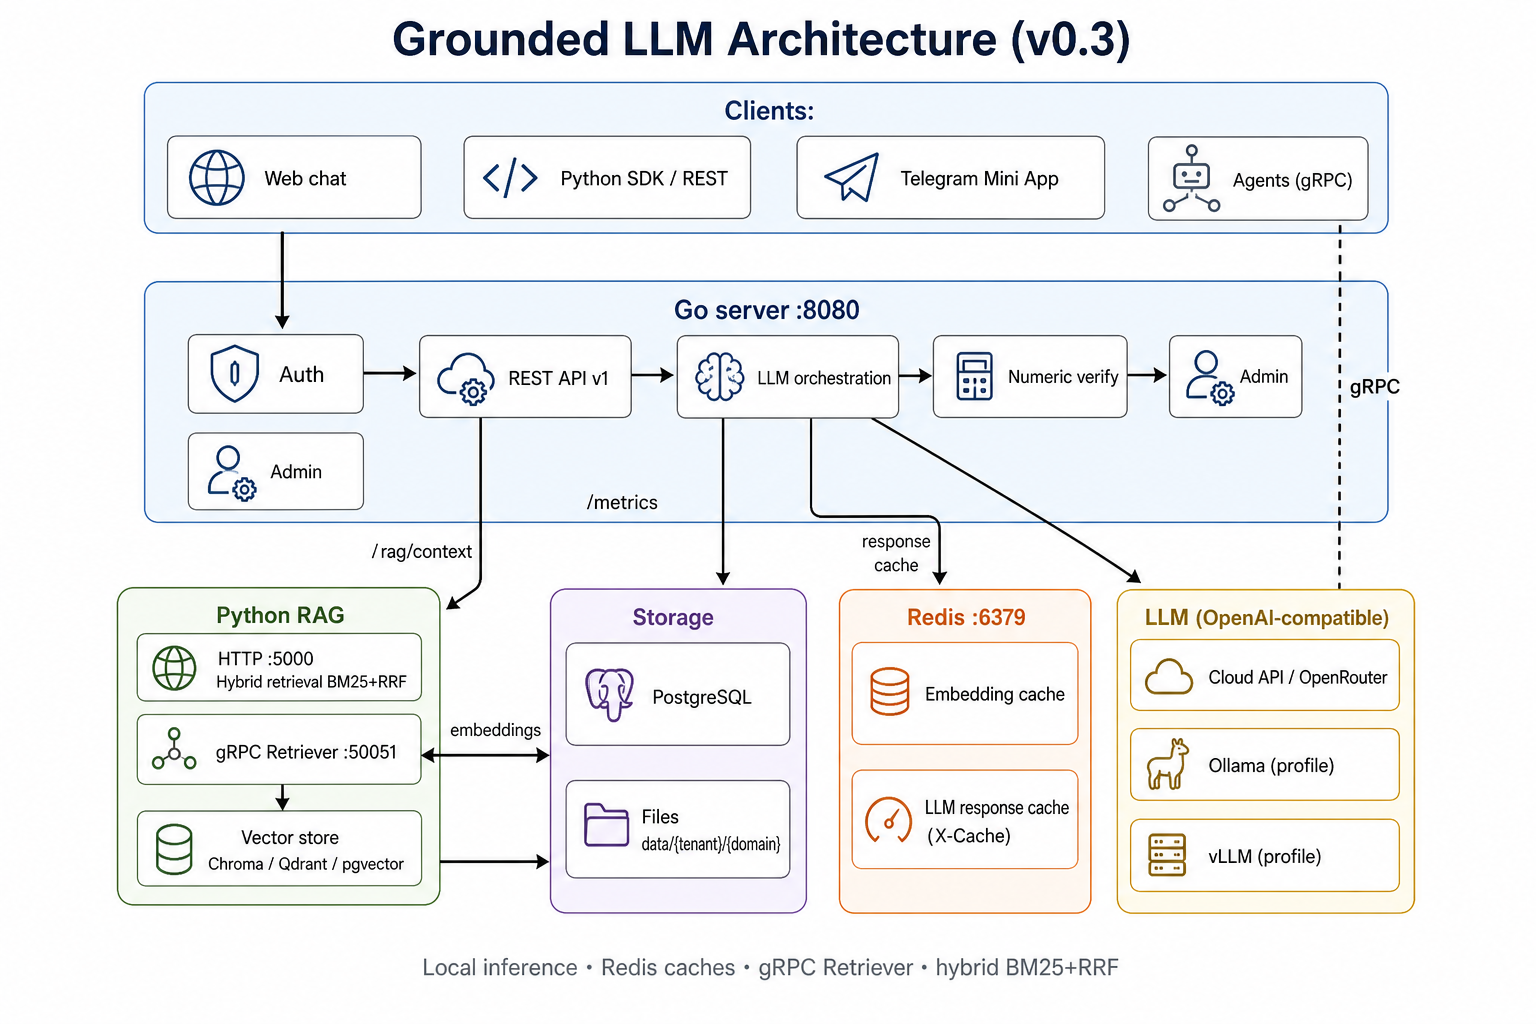
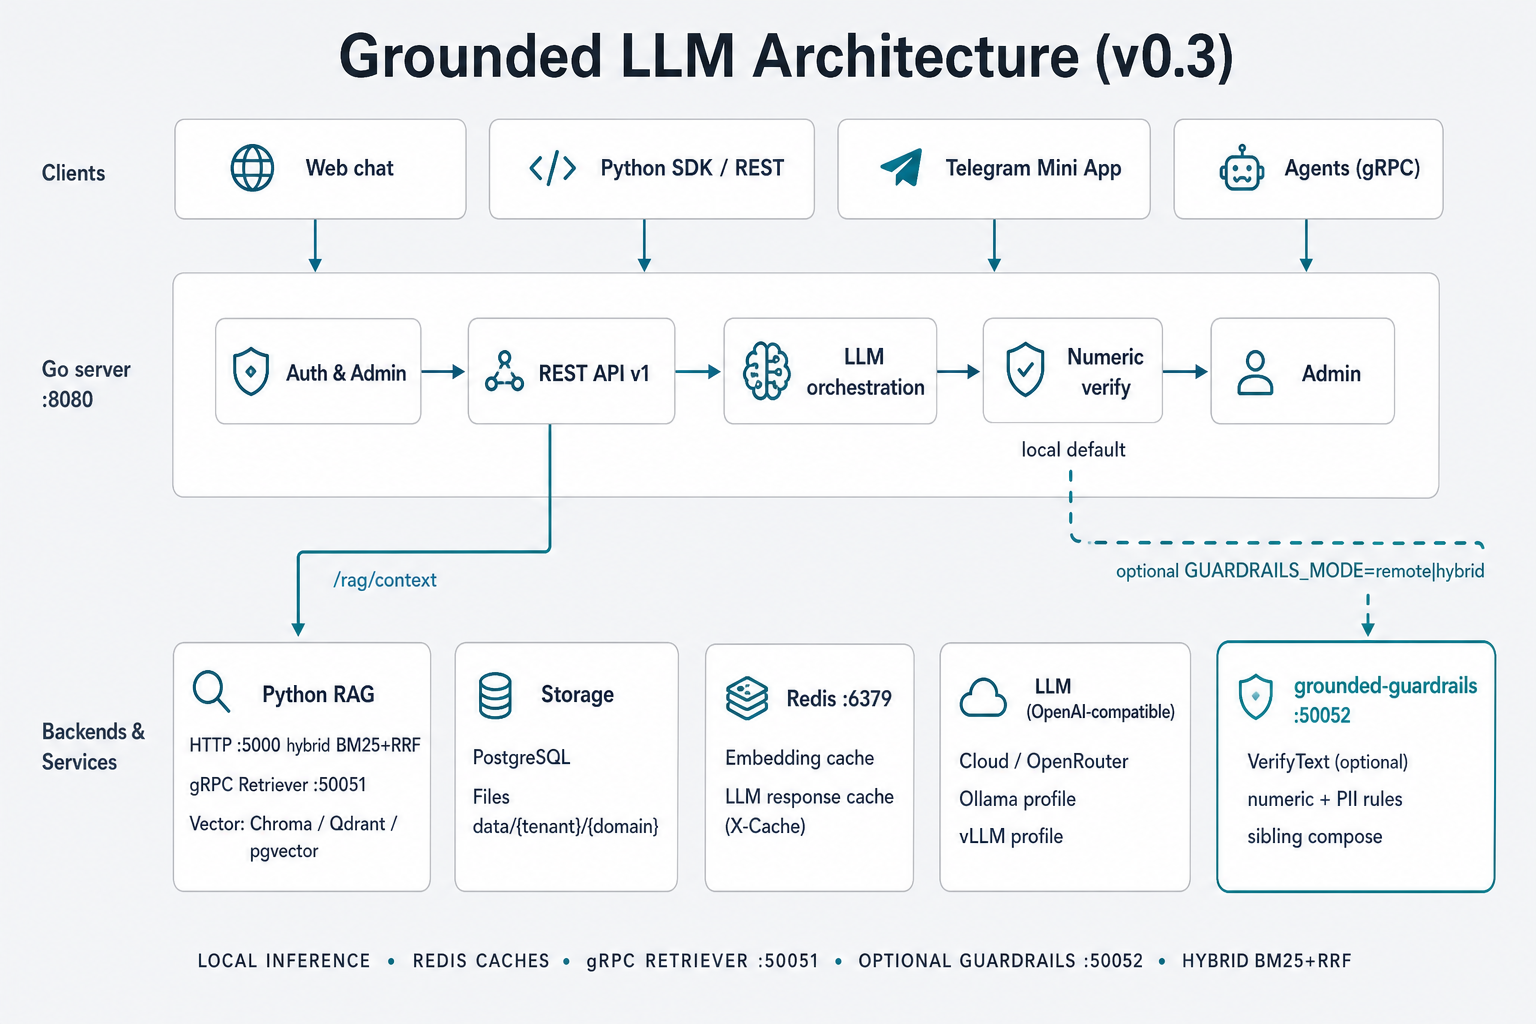
docs: complete EN/RU KB sync for optional guardrails :50052
Align remaining knowledge-base pages and architecture diagram with remote verify modes so product docs match the shipped wire.

diff --git a/docs/ru/knowledge-base/README.md b/docs/ru/knowledge-base/README.md
@@ -2,7 +2,7 @@
 
 Документация для изучения и сопровождения **ядра платформы Grounded LLM** (на русском языке).
 
-**См. также:** [../README.md](../README.md), [../ARCHITECTURE.md](../ARCHITECTURE.md), [../DEPLOY.md](../DEPLOY.md), [../../eval/README.md](../../eval/README.md).  
+**См. также:** [../README.md](../README.md), [../ARCHITECTURE.md](../ARCHITECTURE.md), [../DEPLOY.md](../DEPLOY.md), [../en/GUARDRAILS.md](../en/GUARDRAILS.md), [../../eval/README.md](../../eval/README.md).  
 English: [../../en/knowledge-base/README.md](../../en/knowledge-base/README.md).
 
 ### Только на английском (канон)
@@ -10,6 +10,7 @@ English: [../../en/knowledge-base/README.md](../../en/knowledge-base/README.md).
 | Тема | EN |
 |------|-----|
 | Spec v1, conformance | [GROUNDED_SPEC_v1.md](../../en/spec/GROUNDED_SPEC_v1.md) |
+| Guardrails (remote verify) | [GUARDRAILS.md](../../en/GUARDRAILS.md) |
 | Terraform, K8s | [TERRAFORM.md](../../en/TERRAFORM.md), [K8S_DEPLOY.md](../../en/K8S_DEPLOY.md) |
 | Trust center, backup | [TRUST_CENTER.md](../../en/TRUST_CENTER.md) |
 | SDK | [QUICKSTART_SDK.md](../../en/QUICKSTART_SDK.md) |
@@ -23,7 +24,7 @@ English: [../../en/knowledge-base/README.md](../../en/knowledge-base/README.md).
 | Документ | Описание |
 |----------|----------|
 | [PROJECT_STRUCTURE.md](./PROJECT_STRUCTURE.md) | Карта репозитория |
-| [docker-overview.md](./docker-overview.md) | Docker Compose, 4 сервиса |
+| [docker-overview.md](./docker-overview.md) | Docker Compose (+ опц. guardrails `:50052`) |
 | [github-ci.yml.md](./github-ci.yml.md) | GitHub Actions CI |
 | [config-overview.md](./config-overview.md) | `config/` и локали |
 | [data-pipeline.md](./data-pipeline.md) | Документы KB → RAG → чат |
@@ -37,7 +38,7 @@ English: [../../en/knowledge-base/README.md](../../en/knowledge-base/README.md).
 | [rag-domains_config.md](./rag-domains_config.md) | `domains.json`, tenant |
 | [rag-vector_store.md](./rag-vector_store.md) | Chroma, индексация |
 | [rag-retrieval.md](./rag-retrieval.md) | `POST /rag/context` |
-| [rag-verifier.md](./rag-verifier.md) | Проверка чисел в ответе |
+| [rag-verifier.md](./rag-verifier.md) | Проверка чисел (Go local + опц. remote `:50052`) |
 
 **Рекомендуемый порядок чтения:** domains_config → vector_store → retrieval → verifier → `server/rag_pipeline.go`
 
@@ -48,7 +49,7 @@ English: [../../en/knowledge-base/README.md](../../en/knowledge-base/README.md).
 | [server-overview.md](./server-overview.md) | Обзор `server/*.go` |
 | [server-auth-and-limits.md](./server-auth-and-limits.md) | Auth, API keys, CORS, лимиты |
 | [server-chat-and-db.md](./server-chat-and-db.md) | Сессии, Postgres, citations, streaming |
-| [server-rag_chat.md](./server-rag_chat.md) | RAG + LLM + verify |
+| [server-rag_chat.md](./server-rag_chat.md) | RAG + LLM + verify (`GUARDRAILS_MODE`) |
 | [server-admin-and-ux-api.md](./server-admin-and-ux-api.md) | Админка, metrics, onboarding |
 
 ### UI, скрипты, качество

diff --git a/docs/ru/knowledge-base/server-overview.md b/docs/ru/knowledge-base/server-overview.md
@@ -22,7 +22,8 @@
 | `config.go` | Настройки из env |
 | `llm.go`, `llm_stream.go` | OpenAI-compatible API + поток |
 | `rag_chat.go`, `rag_pipeline.go` | RAG, citations |
-| `rag_verify.go` | Проверка чисел, дисклеймер |
+| `rag_verify.go` | Проверка чисел (local Spec path), дисклеймер |
+| `guardrails_client.go` | Опциональный remote verify → grounded-guardrails `:50052` |
 | `rag_log.go` | Логи `[RAG]` |
 | `domains.go` | Каталог `domains.json` |
 | `locale.go` | `config/locales/{ru,en}`, middleware `X-Locale` |
@@ -55,6 +56,7 @@ flowchart TB
     Redis[(Redis caches)]
     Py[python RAG HTTP :5000 + gRPC :50051]
     LLM[OpenAI-compatible LLM\nOpenRouter / Ollama / vLLM]
+    GR[grounded-guardrails :50052\nопционально]
 
     Web --> Go
     Agents -->|Retriever| Py
@@ -63,6 +65,7 @@ flowchart TB
     Go -->|/rag/context| Py
     Py -->|embedding cache| Redis
     Go -->|/v1/chat/completions| LLM
+    Go -.->|GUARDRAILS_MODE=remote/hybrid| GR
 ```
 
 ---
@@ -70,11 +73,12 @@ flowchart TB
 ## Старт `main()`
 
 1. `loadConfig()` — `.env`
-2. Postgres + `runAllMigrations`
-3. `loadDomainCatalog()`, `initLocaleConfig()`
-4. `newChatStore`
-5. Gin routes + `localeMiddleware` + `startConfigReloadWatcher`
-6. Слушает `:8080`
+2. `initGuardrailsClient()` при `GUARDRAILS_MODE=remote|hybrid`
+3. Postgres + `runAllMigrations`
+4. `loadDomainCatalog()`, `initLocaleConfig()`
+5. `newChatStore`
+6. Gin routes + `localeMiddleware` + `startConfigReloadWatcher`
+7. Слушает `:8080`
 
 ---
 
@@ -92,6 +96,11 @@ flowchart TB
 | `API_KEYS`, `API_KEYS_FILE` | Ключи интеграторов |
 | `DEFAULT_TENANT_ID`, `ALLOWED_TENANTS` | Мультитенантность |
 | `ADMIN_PASSWORD`, `ADMIN_SECRET` | Админка |
+| `GUARDRAILS_MODE` | `local` (default) / `remote` / `hybrid` |
+| `GUARDRAILS_GRPC_ADDR` | адрес guardrails (напр. `localhost:50052`) |
+| `GUARDRAILS_PII_BLOCK` | включить `pii_block` при remote verify |
+
+Подробнее: [../en/GUARDRAILS.md](../en/GUARDRAILS.md).
 
 ---
 
@@ -102,3 +111,4 @@ flowchart TB
 | RAG | [server-rag_chat.md](./server-rag_chat.md) |
 | Python RAG | [python-api.md](./python-api.md) |
 | Docker | [docker-overview.md](./docker-overview.md) |
+| Guardrails | [../en/GUARDRAILS.md](../en/GUARDRAILS.md) |

diff --git a/docs/ru/knowledge-base/server-rag_chat.md b/docs/ru/knowledge-base/server-rag_chat.md
@@ -1,7 +1,8 @@
 # RAG и LLM — `server/rag_pipeline.go`
 
-**Исходники:** `server/rag_pipeline.go`, `server/rag_chat.go`, `server/rag_verify.go`  
+**Исходники:** `server/rag_pipeline.go`, `server/rag_chat.go`, `server/rag_verify.go`, `server/guardrails_client.go`  
 **Python:** [rag-retrieval.md](./rag-retrieval.md), [rag-verifier.md](./rag-verifier.md)  
+**Удалённый verify (опц.):** [../en/GUARDRAILS.md](../en/GUARDRAILS.md)  
 **Вызывается из:** `handleTextMessage`, `sse.go` (streaming)
 
 ---
@@ -12,7 +13,9 @@
 2. `buildRAGUserPrompt` + `config/locales/{locale}/prompts.json`
 3. `callLLMCompletion` или `streamLLMCompletion` — OpenAI-compatible API
 4. `cleanRAGAnswer`, `appendRAGDisclaimer`
-5. `verifyRAGAnswer` — числа только из `fragments`
+5. `verifyRAGAnswer` — Spec-проверка чисел (±0.01 относительно фрагментов):
+   - **`GUARDRAILS_MODE=local` (по умолчанию):** in-process в `rag_verify.go`
+   - **`remote` / `hybrid`:** gRPC `VerifyText` → [grounded-guardrails](https://github.com/kantik001/grounded-guardrails) `:50052` (`guardrails_client.go`); hybrid при сбое сети откатывается на local
 
 При неудачной verify — предупреждение пользователю, а не «тихая» галлюцинация.
 
@@ -35,6 +38,8 @@ POST PYTHON_RAG_URL
 ## Потоковый ответ
 
 `POST /message?stream=1` — Server-Sent Events с пошаговой выдачей текста.
+
+Verify выполняется на **финальном** собранном ответе (тот же `finalizeRAGAnswer`).
 
 ---
 

diff --git a/docs/en/knowledge-base/README.md b/docs/en/knowledge-base/README.md
@@ -2,7 +2,7 @@
 
 Documentation for the **Grounded LLM** platform core.
 
-**See also:** [../ARCHITECTURE.md](../ARCHITECTURE.md), [../DEPLOY.md](../DEPLOY.md), [../../eval/README.md](../../eval/README.md).  
+**See also:** [../ARCHITECTURE.md](../ARCHITECTURE.md), [../DEPLOY.md](../DEPLOY.md), [../GUARDRAILS.md](../GUARDRAILS.md), [../../eval/README.md](../../eval/README.md).  
 Russian docs: [../../ru/knowledge-base/README.md](../../ru/knowledge-base/README.md).
 
 ---
@@ -28,7 +28,7 @@ Russian docs: [../../ru/knowledge-base/README.md](../../ru/knowledge-base/README
 | [rag-domains_config.md](./rag-domains_config.md) | `domains.json`, tenants |
 | [rag-vector_store.md](./rag-vector_store.md) | Chroma, reindex |
 | [rag-retrieval.md](./rag-retrieval.md) | `POST /rag/context` |
-| [rag-verifier.md](./rag-verifier.md) | Answer verification |
+| [rag-verifier.md](./rag-verifier.md) | Answer verification (local Go + optional remote `:50052`) |
 
 ### Go backend
 
@@ -37,7 +37,7 @@ Russian docs: [../../ru/knowledge-base/README.md](../../ru/knowledge-base/README
 | [server-overview.md](./server-overview.md) | `server/*.go` overview |
 | [server-auth-and-limits.md](./server-auth-and-limits.md) | Auth, API keys, CORS |
 | [server-chat-and-db.md](./server-chat-and-db.md) | Sessions, Postgres, citations |
-| [server-rag_chat.md](./server-rag_chat.md) | RAG + LLM + streaming |
+| [server-rag_chat.md](./server-rag_chat.md) | RAG + LLM + verify (`GUARDRAILS_MODE`) |
 | [server-admin-and-ux-api.md](./server-admin-and-ux-api.md) | Admin, metrics, OpenAPI |
 
 ### UI, scripts, quality

diff --git a/docs/ru/knowledge-base/rag-verifier.md b/docs/ru/knowledge-base/rag-verifier.md
@@ -2,7 +2,8 @@
 
 **Исходник:** `rag/verifier.py`  
 **Тесты:** `tests/test_verifier.py`  
-**В проде:** основная проверка в Go — `server/rag_verify.go`
+**В проде (по умолчанию):** проверка в Go — `server/rag_verify.go` (`GUARDRAILS_MODE=local`)  
+**Опционально:** gRPC → [grounded-guardrails](https://github.com/kantik001/grounded-guardrails) `:50052` при `GUARDRAILS_MODE=remote|hybrid` — см. [../en/GUARDRAILS.md](../en/GUARDRAILS.md)
 
 ---
 
@@ -42,14 +43,14 @@
 
 ---
 
-## Python vs Go
+## Python vs Go vs guardrails
 
-| | Python | Go |
-|--|--------|-----|
-| Прод | эталон для тестов | **да**, после каждого RAG-ответа |
-| Логика | та же идея | `verifyRAGAnswer` |
+| | Python | Go (local) | grounded-guardrails |
+|--|--------|------------|---------------------|
+| Прод | эталон для тестов | **default** после RAG-ответа | опционально `remote` / `hybrid` |
+| Логика | та же идея Spec ±0.01 | `verifyRAGAnswer` | Rust reference + Go host parity |
 
-При изменениях держите логику **согласованной**.
+При изменениях держите tolerance **±0.01** согласованным.
 
 ---
 
@@ -65,3 +66,4 @@
 |------|------|
 | Промпт | [server-rag_chat.md](./server-rag_chat.md) |
 | Фрагменты | [rag-retrieval.md](./rag-retrieval.md) |
+| Remote verify | [../en/GUARDRAILS.md](../en/GUARDRAILS.md) |

diff --git a/docs/en/knowledge-base/server-rag_chat.md b/docs/en/knowledge-base/server-rag_chat.md
@@ -1,7 +1,8 @@
 # RAG and LLM — `server/rag_pipeline.go`
 
-**Sources:** `server/rag_pipeline.go`, `server/rag_chat.go`, `server/rag_verify.go`  
+**Sources:** `server/rag_pipeline.go`, `server/rag_chat.go`, `server/rag_verify.go`, `server/guardrails_client.go`  
 **Python:** [rag-retrieval.md](./rag-retrieval.md), [rag-verifier.md](./rag-verifier.md)  
+**Remote verify (optional):** [../GUARDRAILS.md](../GUARDRAILS.md)  
 **Called from:** `handleTextMessage` (`message_handlers.go`), `sse.go` (streaming)
 
 ---
@@ -12,7 +13,9 @@
 2. `buildRAGUserPrompt` + `config/locales/{locale}/prompts.json`
 3. `callLLMCompletion` or `streamLLMCompletion` — OpenAI-compatible API
 4. `cleanRAGAnswer`, `appendRAGDisclaimer`
-5. `verifyRAGAnswer` — numbers must appear in `fragments`
+5. `verifyRAGAnswer` — Spec numeric check (±0.01 vs fragments):
+   - **`GUARDRAILS_MODE=local` (default):** in-process extract/compare in `rag_verify.go`
+   - **`remote` / `hybrid`:** gRPC `VerifyText` → [grounded-guardrails](https://github.com/kantik001/grounded-guardrails) `:50052` (`guardrails_client.go`); hybrid falls back to local on transport errors
 
 On verify failure — warning to user, not a silent hallucination.
 
@@ -36,6 +39,8 @@ POST PYTHON_RAG_URL
 
 `POST /message?stream=1` — Server-Sent Events with incremental tokens.  
 Web App uses streaming when supported, falls back to JSON response.
+
+Verify still runs on the **final** assembled answer (same `finalizeRAGAnswer` path).
 
 ---
 

diff --git a/docs/en/knowledge-base/docker-overview.md b/docs/en/knowledge-base/docker-overview.md
@@ -42,10 +42,12 @@ flowchart LR
 | **server** | `Dockerfile.server` | API, LLM orchestration, verify, admin, `/metrics` |
 | **webapp** | `Dockerfile.webapp` | Reference UI + nginx → server |
 | **ollama** / **vllm** | optional profiles | Local OpenAI-compatible LLM (`--profile ollama` / `vllm`) |
+| **guardrails** (optional) | sibling `docker-compose.guardrails.yml` | [grounded-guardrails](https://github.com/kantik001/grounded-guardrails) gRPC `:50052` — [GUARDRAILS.md](../GUARDRAILS.md) |
 
 Compose project name: **`grounded_llm`** (`name:` in `docker-compose.yml`, `PROJECT_NAME` in `Makefile`).
 
-Local LLM / caches: [LLM_PROVIDERS.md](../LLM_PROVIDERS.md).
+Local LLM / caches: [LLM_PROVIDERS.md](../LLM_PROVIDERS.md).  
+Optional remote verify: [GUARDRAILS.md](../GUARDRAILS.md).
 
 ---
 
@@ -55,6 +57,8 @@ Local LLM / caches: [LLM_PROVIDERS.md](../LLM_PROVIDERS.md).
 cp .env.example .env   # LLM_API_KEY or LLM_PROVIDER=ollama, ADMIN_PASSWORD, TELEGRAM_BOT_TOKEN
 docker compose up -d --build
 # Optional: docker compose --profile ollama up -d
+# Optional remote verify (sibling repo grounded-guardrails):
+# docker compose -f docker-compose.yml -f docker-compose.guardrails.yml up -d --build
 python scripts/reindex_rag.py   # or POST /admin/reindex
 ```
 

diff --git a/README.md b/README.md
@@ -38,6 +38,8 @@ Grounded LLM separates **orchestration** (Go: auth, sessions, LLM, verify) from 
 
 ![Grounded LLM architecture](docs/assets/architecture.png)
 
+_Diagram includes optional [grounded-guardrails](https://github.com/kantik001/grounded-guardrails) on **`:50052`** (dashed path). Default verify stays in-process (`GUARDRAILS_MODE=local`)._
+
 **Message flow (default):** client → Go auth/session → Python hybrid retrieval → Go LLM → **numeric verify (in-process)** → citations → Postgres.
 
 **Optional remote verify:** same path, but after LLM Go calls [grounded-guardrails](https://github.com/kantik001/grounded-guardrails) gRPC **`:50052`** (`GUARDRAILS_MODE=remote|hybrid`). Default remains `local` (Spec behavior, CI-safe). See [GUARDRAILS.md](docs/en/GUARDRAILS.md).

diff --git a/docs/ru/knowledge-base/docker-overview.md b/docs/ru/knowledge-base/docker-overview.md
@@ -17,6 +17,7 @@
 | **server** | `Dockerfile.server` | API, LLM, verify, admin, `/metrics` |
 | **webapp** | `Dockerfile.webapp` | UI + nginx → server |
 | **ollama** / **vllm** | optional profiles | локальный LLM |
+| **guardrails** (опц.) | sibling `docker-compose.guardrails.yml` | grounded-guardrails gRPC `:50052` — [../en/GUARDRAILS.md](../en/GUARDRAILS.md) |
 
 Имя проекта Compose: **`grounded_llm`**
 
@@ -27,6 +28,8 @@
 ```bash
 cp .env.example .env   # LLM_API_KEY, ADMIN_PASSWORD, TELEGRAM_BOT_TOKEN
 docker compose up -d --build
+# optional remote verify (sibling repo grounded-guardrails):
+# docker compose -f docker-compose.yml -f docker-compose.guardrails.yml up -d --build
 python scripts/reindex_rag.py   # или POST /admin/reindex
 ```
 

diff --git a/docs/en/knowledge-base/server-overview.md b/docs/en/knowledge-base/server-overview.md
@@ -98,6 +98,11 @@ flowchart TB
 | `API_KEYS`, `API_KEYS_FILE` | integrator keys |
 | `DEFAULT_TENANT_ID`, `ALLOWED_TENANTS` | multi-tenant |
 | `ADMIN_PASSWORD`, `ADMIN_SECRET` | admin |
+| `GUARDRAILS_MODE` | `local` (default) / `remote` / `hybrid` |
+| `GUARDRAILS_GRPC_ADDR` | guardrails address (e.g. `localhost:50052`) |
+| `GUARDRAILS_PII_BLOCK` | enable `pii_block` on remote verify |
+
+See [../GUARDRAILS.md](../GUARDRAILS.md).
 
 ---
 
@@ -108,3 +113,4 @@ flowchart TB
 | RAG flow | [server-rag_chat.md](./server-rag_chat.md) |
 | Python RAG | [python-api.md](./python-api.md) |
 | Docker | [docker-overview.md](./docker-overview.md) |
+| Guardrails | [../GUARDRAILS.md](../GUARDRAILS.md) |

diff --git a/CHANGELOG.md b/CHANGELOG.md
@@ -13,6 +13,8 @@ and this project adheres to [Semantic Versioning](https://semver.org/spec/v2.0.0
 - Proto client stubs (`api/proto/guardrails.proto` → `server/gen/guardrails/v1`)
 - Compose override [`docker-compose.guardrails.yml`](docker-compose.guardrails.yml) for sibling `grounded-guardrails`
 - Docs: [docs/en/GUARDRAILS.md](docs/en/GUARDRAILS.md); architecture / deploy / network / verifier updated for optional `:50052`
+- Docs completeness: EN/RU knowledge-base verify path, regenerated `docs/assets/architecture.png` with optional guardrails `:50052`
+- Historical plan note: guardrails port is `:50052` (not `:50051`)
 
 ## [0.3.0] - 2026-07-27
 

diff --git a/docs/en/knowledge-base/PROJECT_STRUCTURE.md b/docs/en/knowledge-base/PROJECT_STRUCTURE.md
@@ -32,7 +32,8 @@ Key files:
 | `domains.go`, `domain_resolve.go` | domain catalog, `domain_id` in API |
 | `locale.go` | locale bundles, `X-Locale` middleware |
 | `config_paths.go` | JSON lookup under `/config` |
-| `rag_pipeline.go`, `rag_verify.go` | RAG + LLM + verify |
+| `rag_pipeline.go`, `rag_verify.go` | RAG + LLM + verify (local Spec path) |
+| `guardrails_client.go` | optional remote verify → grounded-guardrails `:50052` |
 | `sse.go`, `llm_stream.go` | SSE streaming |
 | `api_keys.go`, `auth_combined.go` | `X-API-Key`, `/api/v1/*` |
 | `tenant.go` | `X-Tenant-ID`, KB path isolation |
